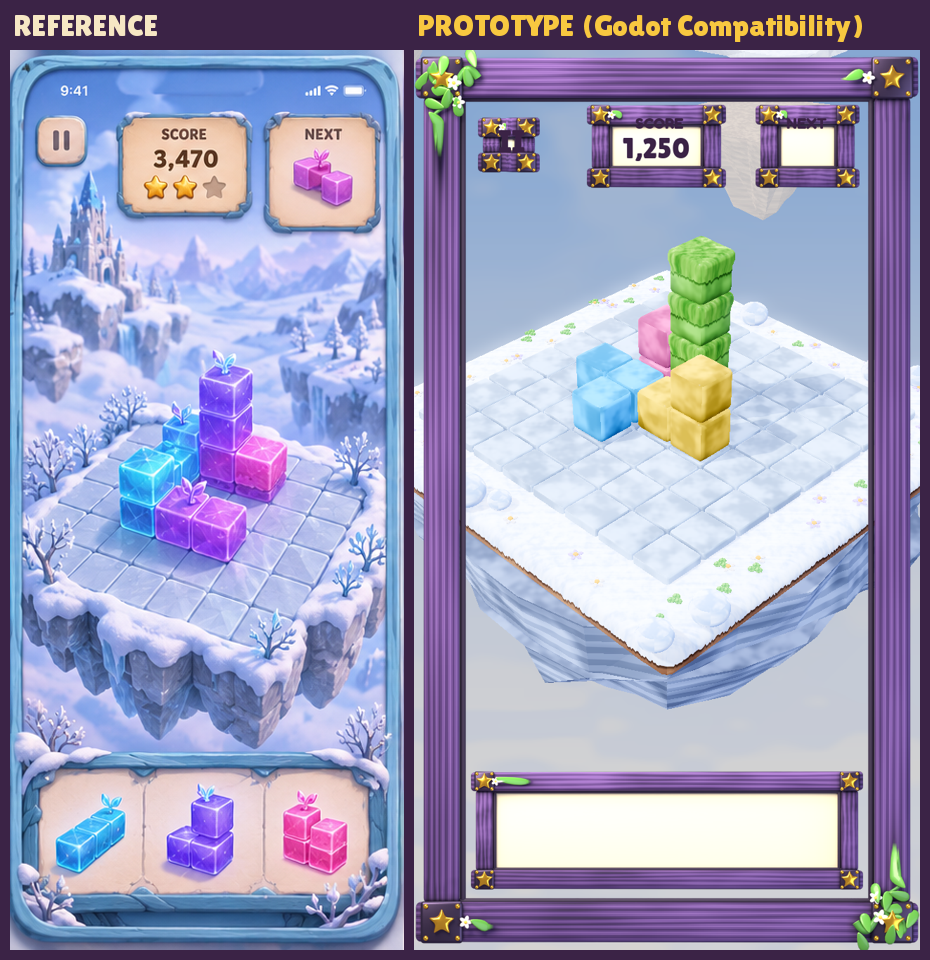
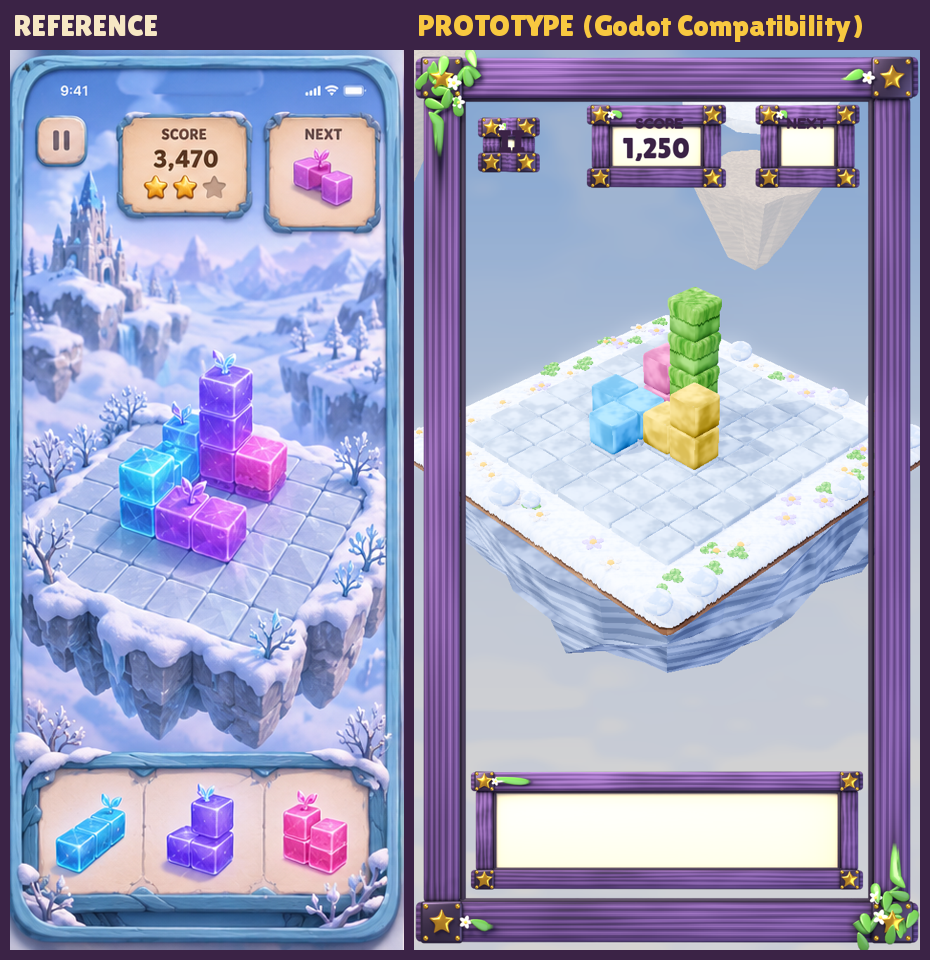
wip(art): style R&D island demo and README
Story: art bible v2 (design/art/art-bible.md)

Claude-Session: https://claude.ai/code/session_015gA98JmmjSJ5ZLv762bPy3

diff --git a/prototypes/style_rnd/README.md b/prototypes/style_rnd/README.md
@@ -1,0 +1,42 @@
+# Style R&D prototypes (`prototypes/style_rnd/`)
+
+**Status:** concluded (2026-10-13). Findings live in `design/art/style-techniques.md`.
+Throwaway code. Nothing in `src/` may import from here; rewrite to production standards.
+
+## Hypotheses
+- (a) A procedural "painted" spatial shader (wrap + 2-tone ramp + tinted shadows + fresnel rim +
+  painted edge light + cap mask) makes a rounded block read like ref 13 **under Compatibility**.
+- (b) A purple-wood frame modelled and lit in Blender (Cycles CPU, procedural wood, baked-in
+  edge highlight + AO) can be used as a Godot `NinePatchRect` at several sizes, like refs 05/08.
+- (c) One shared Environment preset + one 3-light rig gives the warm ref-15 look and can be
+  swapped per biome (meadow, ice) without per-scene tweaking.
+
+## Run
+```
+B=/tmp/claude-0/blender/blender-5.2.2-linux-x64/blender
+$B -b -P prototypes/style_rnd/blender_frame_ninepatch.py                       # panel frame
+WT_VARIANT=chip   $B -b -P prototypes/style_rnd/blender_frame_ninepatch.py     # thin HUD chip frame
+WT_VARIANT=screen $B -b -P prototypes/style_rnd/blender_frame_ninepatch.py     # no parchment (screen border)
+G='timeout 240 xvfb-run -a -s "-screen 0 1280x1280x24" godot --path . --rendering-driver opengl3'
+eval $G --resolution 1280x720 -s res://prototypes/style_rnd/block_demo.gd
+eval $G --resolution 1280x720 -s res://prototypes/style_rnd/ui_demo.gd
+eval $G --resolution 720x1280 -s res://prototypes/style_rnd/island_demo.gd -- biome=meadow   # or biome=ice
+python3 prototypes/style_rnd/make_side_by_side.py   # labelled ref-vs-prototype images
+```
+Screenshots: `production/qa/evidence/style-rnd/`.
+
+## Files
+| File | What |
+|---|---|
+| `style_kit.gd` | Shared Environment preset, 3-light rig, painted backdrop, rounded-box mesh, nine-patch + multicolour title helpers |
+| `spatial_proto_painted_block.gdshader` | Painted block / prop shader (custom `light()`) |
+| `canvas_proto_backdrop.gdshader` | Painted 2D sky backdrop drawn behind 3D via `BG_CANVAS` |
+| `blender_frame_ninepatch.py` | Procedural purple-wood frame, vines, blossoms, iron caps, gold stars |
+| `renders/` | Frame renders (1024 px, 2x) + nine-patch margin JSON |
+| `fonts/` | Lilita One (OFL), Titan One (OFL), Luckiest Guy (**Apache-2.0**) + licence texts |
+
+## Findings (short)
+- (a) PASS with gaps: shape, cap, palette and light response match ref 13; grass lacks tuft geometry.
+- (b) PASS: nine-patch works if size >= 2x margin; needs one render per size class (panel / chip / screen).
+- (c) PASS for lighting; FAIL for Godot `Sky` + global fog under Compatibility -> use `BG_CANVAS`
+  backdrop + per-material haze instead. Backdrop scenery (distant islands, mountains) is the largest gap.
